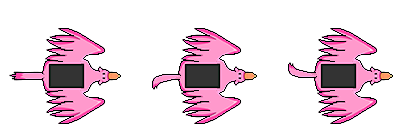
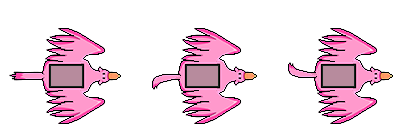
changed the colour of recatngle on hippogriff

Changed region(s): [[0.4412, 0.4706, 0.5588, 0.6471], [0.7941, 0.4706, 0.8824, 0.6471], [0.1176, 0.4706, 0.2059, 0.6471]]

diff --git a/js/PongScene/PongInput.js b/js/PongScene/PongInput.js
@@ -72,10 +72,10 @@ function pongPaddleMove() {
         }
     }
 
-    if (keyHeld_RightPong) {
+    else if (keyHeld_RightPong) {
         paddle1X += PADDLE_SPEED;
         if (paddle1X >= canvas.width) {
-            paddle1X = canvas.width
+            paddle1X = canvas.width;
         }
     }
 }
